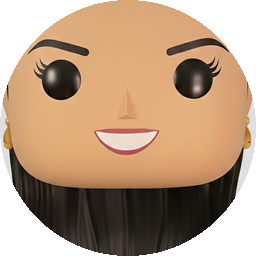
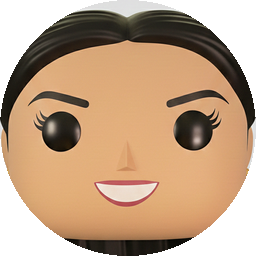
Fix female head crop: shift up 15%

diff --git a/crop_heads.py b/crop_heads.py
@@ -34,9 +34,9 @@ print(f'Male head saved: {male_sq.size}')
 f = Image.open(os.path.join(base, 'female.png'))
 fw, fh = f.size
 print(f'Female source: {fw}x{fh}')
-# Normalized coords: top-left (0.23, 0.28), bottom-right (0.77, 0.82)
-fx1, fy1 = int(0.23 * fw), int(0.28 * fh)
-fx2, fy2 = int(0.77 * fw), int(0.82 * fh)
+# Normalized coords: top-left (0.23, 0.20), bottom-right (0.77, 0.74) — shifted up 15%
+fx1, fy1 = int(0.23 * fw), int(0.20 * fh)
+fx2, fy2 = int(0.77 * fw), int(0.74 * fh)
 fem_crop = f.crop((fx1, fy1, fx2, fy2))
 
 # Make it square (1:1)
